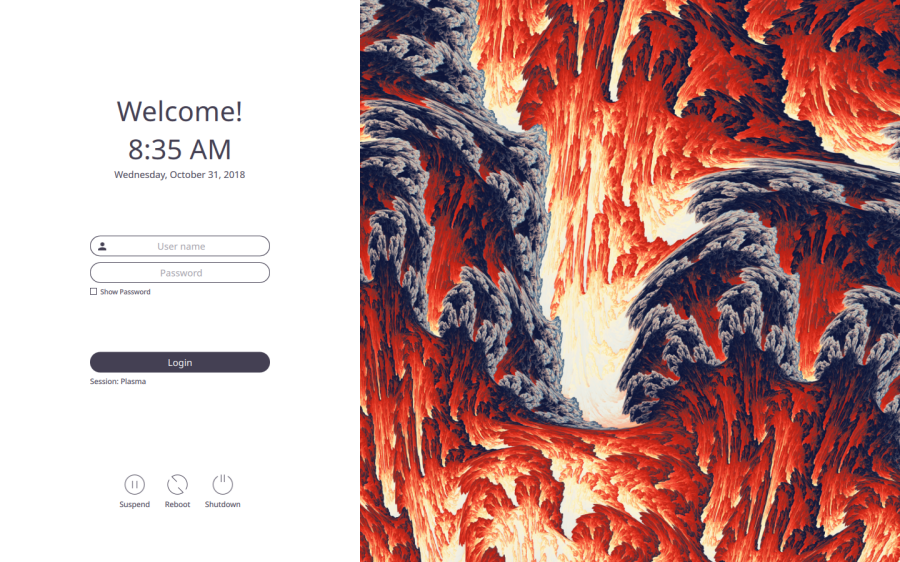
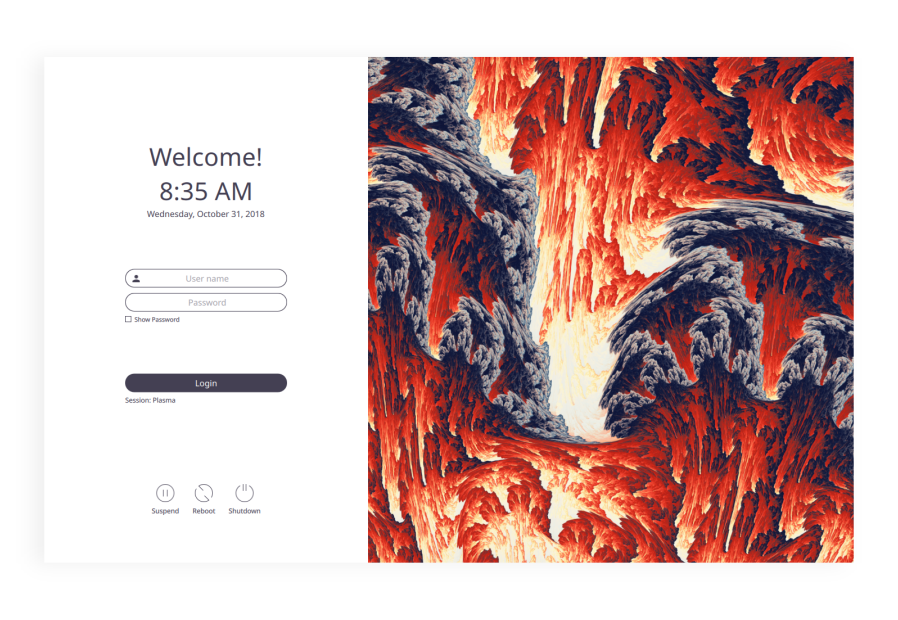
Resized

diff --git a/README.md b/README.md
@@ -1,4 +1,4 @@
-<img src="https://raw.githubusercontent.com/MarianArlt/sddm-sugar-light/master/preview.png" width="900" height="562" alt="Screenshot of the Sugar Light theme for SDDM" title="Interface preview of the Sugar Light theme for SDDM">
+![Screenshot of the interface of the Sugar Light theme for SDDM](preview.png "The default interface of the Sugar Light theme for SDDM")
 
 # Sugar Light login theme for SDDM
 
